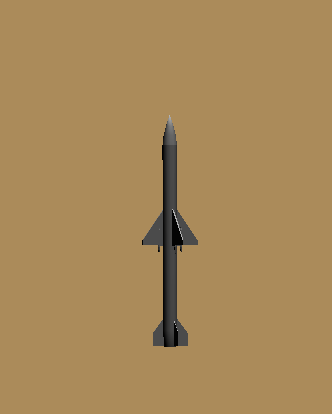
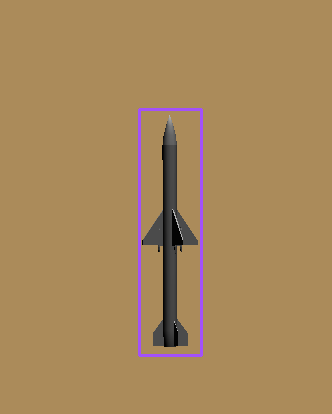
misc. changes

Changed region(s): [[0.3916, 0.2609, 0.6325, 0.8696]]

diff --git a/dino.py b/dino.py
@@ -28,12 +28,12 @@ yaml.dump(metadata, open(f"{out_path}/metadata.yaml", "w"))
 
 processor = GroundingDinoProcessor.from_pretrained("IDEA-Research/grounding-dino-base")
 model = GroundingDinoForObjectDetection.from_pretrained("IDEA-Research/grounding-dino-base").to('cuda')
-prompt_text = "rocket." # needs to be lowercase and end with a period
+prompt_text = "rocket.missile." # needs to be lowercase and end with a period
 
 i = 0
 
 frame_files: list[str] = []
-for folder in ["google_images", "google_images_2","google_images_3"]:
+for folder in ["google_images_6"]:
     for frame_fname in os.listdir(folder):
         frame_files.append(f"{folder}/{frame_fname}")
 

diff --git a/download_google_images.py b/download_google_images.py
@@ -1,4 +1,8 @@
-from icrawler.builtin import GoogleImageCrawler # pip install icrawler
+from icrawler.builtin import GoogleImageCrawler
 
-google_crawler = GoogleImageCrawler(storage={'root_dir': 'google_images_3'})
-google_crawler.crawl(keyword='amatuer rocket launch footage', max_num=2000)
+google_crawler = GoogleImageCrawler(
+    feeder_threads=1,
+    parser_threads=2,
+    downloader_threads=4,
+    storage={'root_dir': 'google_images_6'})
+google_crawler.crawl(keyword='surface to air missile launch', max_num=2000)

diff --git a/yolo_inference.py b/yolo_inference.py
@@ -2,7 +2,7 @@ from ultralytics import YOLO
 import supervision as sv
 import cv2 as cv
 
-model = YOLO('runs/detect/train2/weights/best.pt')
+model = YOLO('runs/detect/train5/weights/80.pt')
 
 img = cv.imread("rocket.png")
 

diff --git a/train_yolo.py b/train_yolo.py
@@ -1,7 +1,7 @@
 from ultralytics import YOLO
 
 task='detection'
-model = YOLO('yolov8n.yaml')
+model = YOLO('yolov8s.pt')
     
 model.train(
     data='yolo_output/metadata.yaml', 
